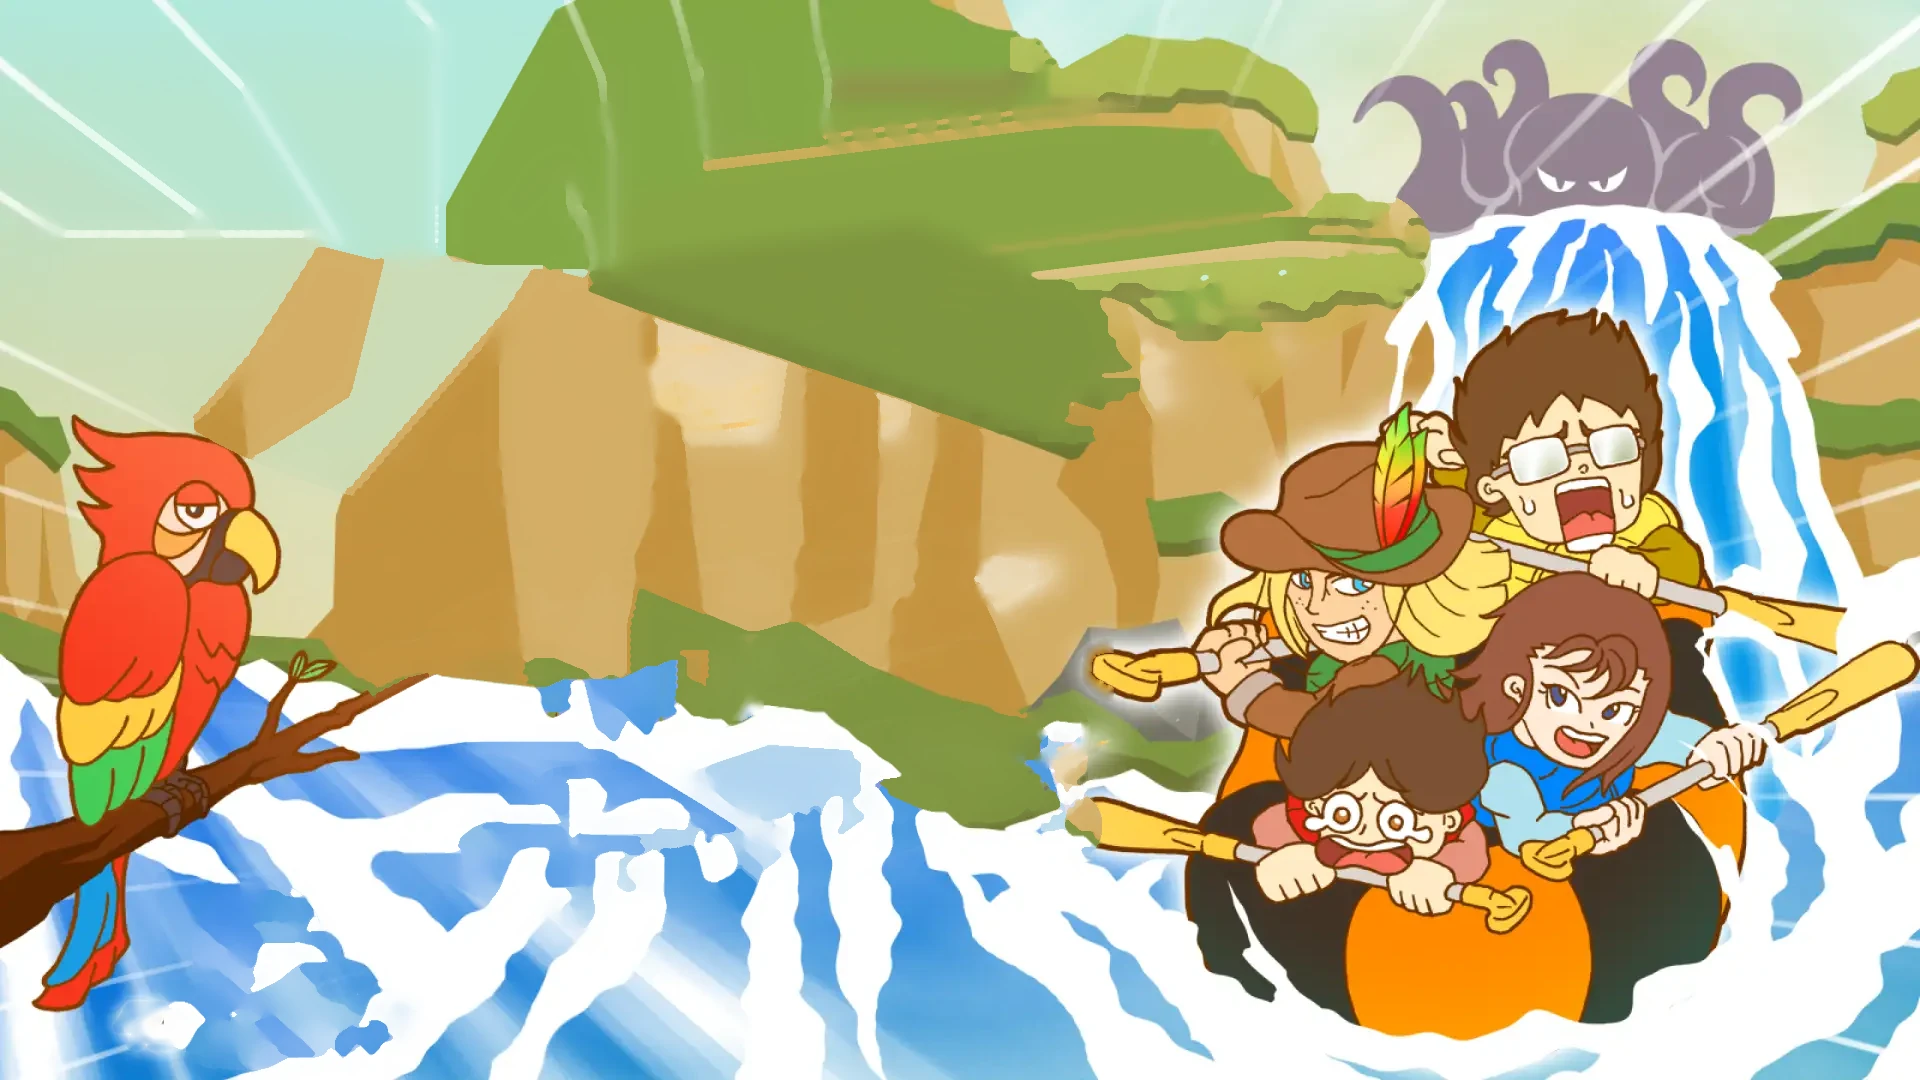
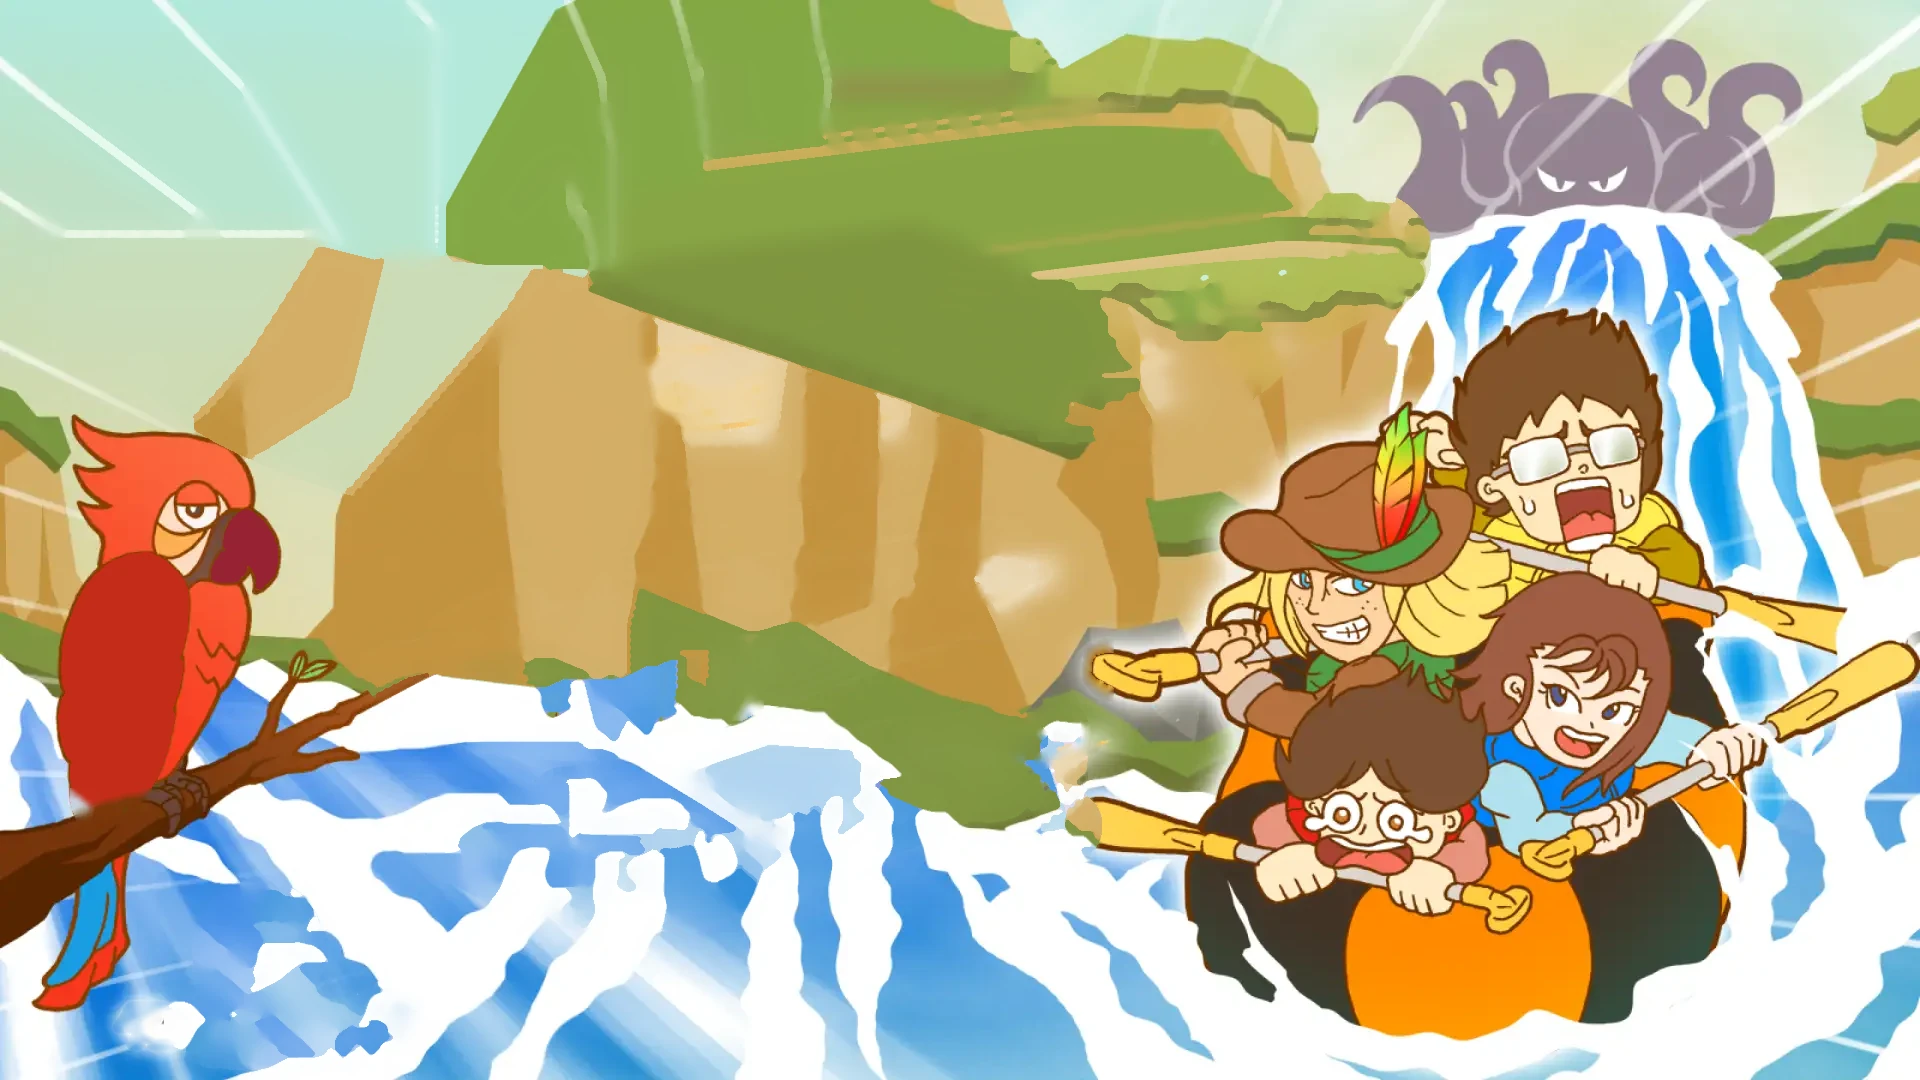
Title: calmer water, gentler ナゾリバー motion, animated parrot
- Water flow, swirl, glints and waterfall slowed to roughly 40-55%.
- ナゾリバー glides in over 1.15s with a softer settle and lighter shake;
  letter waves scroll in 6s, idle float slower and smaller, shine sweeps less often.
- Parrot now and then flaps its wing and opens its beak (cut-out wing, beak and
  jaw layers; background under them patched).

Claude-Session: https://claude.ai/code/session_01SqEk8DXTmopF3XoCv2o86J

Changed region(s): [[0.0312, 0.4583, 0.1562, 0.7639]]

diff --git a/src/title.ts b/src/title.ts
@@ -1,6 +1,7 @@
 import { asset } from "./paths";
 import logoSvg from "./title-logo.svg?raw";
 import "./title.css";
+import { TitleParrot } from "./titleParrot";
 import { TitleWater } from "./titleWater";
 
 // Title: plain key visual slams in → 激流！ → ナゾリバー → オンライン版, then CLICK TO START.
@@ -14,8 +15,8 @@ const OUT_EXPO = "cubic-bezier(0.16, 1, 0.3, 1)";
 const T_BG = 0;
 const T_GEKI = 650;
 const T_NAZO = 1150;
-const T_BADGE = 1750;
-const T_READY = 2250;
+const T_BADGE = 2350;
+const T_READY = 2850;
 
 type Handlers = {
   begin: () => void;
@@ -56,6 +57,7 @@ export class TitleScreen {
   private bgWrap: HTMLElement;
   private bgInner: HTMLElement;
   private water: TitleWater;
+  private parrot: TitleParrot;
   private lines: HTMLImageElement;
   private logo: HTMLElement;
   private geki: SVGGElement;
@@ -88,6 +90,7 @@ export class TitleScreen {
     this.water = new TitleWater(this.bgInner, asset("art/title/water_mask.webp"));
     place(this.water.canvas, 960, 540, 1920, 1080);
     this.water.setRunning(true);
+    this.parrot = new TitleParrot(this.bgInner);
     if (import.meta.env.DEV || new URLSearchParams(location.search).get("debug") === "true") {
       Object.assign(window, { __titleWater: this.water });
     }
@@ -148,6 +151,7 @@ export class TitleScreen {
   setVisible(visible: boolean): void {
     this.root.style.display = visible ? "" : "none";
     this.water.setRunning(visible);
+    this.parrot.setRunning(visible && this.state === "ready");
   }
 
   /** Called whenever the game comes back to the title: replay the intro after a run. */
@@ -208,19 +212,19 @@ export class TitleScreen {
     );
     this.at(T_GEKI + 220, () => this.impact("bashi", 14, 0.55));
 
-    // 3. ナゾリバー surges in from the right like a wave.
+    // 3. ナゾリバー glides in from the right like a swell, then settles.
     this.anim(
       this.nazo,
       [
-        { opacity: 0, transform: "translateX(900px) skewX(-24deg) scaleX(1.25)" },
-        { opacity: 1, transform: "translateX(-40px) skewX(8deg) scaleX(0.96)", offset: 0.6 },
-        { opacity: 1, transform: "translateX(12px) skewX(-2deg) scaleX(1.01)", offset: 0.82 },
-        { opacity: 1, transform: "translateX(0) skewX(0deg) scaleX(1)" },
+        { opacity: 0, transform: "translateX(640px) skewX(-12deg)" },
+        { opacity: 1, transform: "translateX(-22px) skewX(3deg)", offset: 0.55 },
+        { opacity: 1, transform: "translateX(6px) skewX(-1deg)", offset: 0.8 },
+        { opacity: 1, transform: "translateX(0) skewX(0deg)" },
       ],
-      { duration: 520, delay: T_NAZO, easing: "cubic-bezier(0.3, 0.7, 0.4, 1)" },
+      { duration: 1150, delay: T_NAZO, easing: "cubic-bezier(0.22, 0.75, 0.3, 1)" },
     );
-    this.at(T_NAZO + 300, () => {
-      this.impact("basha", 20, 0.7);
+    this.at(T_NAZO + 420, () => {
+      this.impact("basha", 9, 0.45);
       this.splashBurst();
     });
 
@@ -254,9 +258,10 @@ export class TitleScreen {
     if (this.state !== "intro") return;
     this.state = "ready";
     this.root.classList.add("ready");
+    this.parrot.setRunning(true);
     this.idle.push(
-      this.logo.animate([{ transform: "translateY(0) rotate(0deg)" }, { transform: "translateY(-10px) rotate(-0.4deg)" }], {
-        duration: 2200,
+      this.logo.animate([{ transform: "translateY(0) rotate(0deg)" }, { transform: "translateY(-6px) rotate(-0.25deg)" }], {
+        duration: 3800,
         iterations: Infinity,
         direction: "alternate",
         easing: "ease-in-out",
@@ -270,9 +275,9 @@ export class TitleScreen {
     );
     this.shines.forEach((shine, i) => {
       this.idle.push(
-        shine.animate([{ transform: "translateX(0)" }, { transform: "translateX(1900px)" }], {
-          duration: 4200,
-          delay: i * 140,
+        shine.animate([{ transform: "translateX(0)" }, { transform: "translateX(1900px)", offset: 0.4 }, { transform: "translateX(1900px)" }], {
+          duration: 7000,
+          delay: i * 220,
           iterations: Infinity,
           easing: "cubic-bezier(0.45, 0, 0.2, 1)",
         }),

diff --git a/src/titleParrot.ts b/src/titleParrot.ts
@@ -1,0 +1,92 @@
+import { asset } from "./paths";
+
+// The parrot on the title now and then flaps its wing or works its beak.
+// Parts are cut from the key visual (tools/title-art/parrot_parts.py); the background under them is pre-patched
+// (shadowed body red under the wing, dark mouth behind the beak), so moving them reveals something sensible.
+
+type Part = { x: number; y: number; w: number; h: number; px: number; py: number };
+
+// Stage pixels, written by parrot_parts.py. px/py = hinge point.
+const WING: Part = { x: 55, y: 549, w: 137, h: 282, px: 143, py: 569 };
+const BEAK: Part = { x: 220, y: 506, w: 61, h: 87, px: 228, py: 532 };
+const JAW: Part = { x: 208, y: 548, w: 42, h: 38, px: 214, py: 554 };
+
+function layer(parent: HTMLElement, name: string, part: Part): HTMLImageElement {
+  const img = document.createElement("img");
+  img.className = "abs t-parrot";
+  img.src = asset(`art/title/parrot_${name}.webp`);
+  img.draggable = false;
+  img.alt = "";
+  img.style.left = `${part.x}px`;
+  img.style.top = `${part.y}px`;
+  img.style.width = `${part.w}px`;
+  img.style.height = `${part.h}px`;
+  img.style.transformOrigin = `${part.px - part.x}px ${part.py - part.y}px`;
+  parent.appendChild(img);
+  return img;
+}
+
+export class TitleParrot {
+  private wing: HTMLImageElement;
+  private jaw: HTMLImageElement;
+  private beak: HTMLImageElement;
+  private timer = 0;
+  private running = false;
+
+  constructor(parent: HTMLElement) {
+    this.wing = layer(parent, "wing", WING);
+    this.jaw = layer(parent, "jaw", JAW);
+    this.beak = layer(parent, "beak", BEAK);
+  }
+
+  setRunning(running: boolean): void {
+    if (running === this.running) return;
+    this.running = running;
+    window.clearTimeout(this.timer);
+    if (running) this.schedule(1800 + Math.random() * 1500);
+  }
+
+  private schedule(ms: number): void {
+    this.timer = window.setTimeout(() => {
+      if (!this.running) return;
+      const roll = Math.random();
+      if (roll < 0.45) this.talk();
+      else if (roll < 0.85) this.flap();
+      else {
+        this.flap();
+        window.setTimeout(() => this.talk(), 350);
+      }
+      this.schedule(2600 + Math.random() * 3600);
+    }, ms);
+  }
+
+  /** Wing lifts away from the body a couple of times, then folds back. */
+  private flap(): void {
+    const big = Math.random() < 0.6;
+    const frames = big
+      ? [
+          { transform: "rotate(0deg)" },
+          { transform: "rotate(12deg) scaleX(1.03)", offset: 0.22 },
+          { transform: "rotate(4deg)", offset: 0.45 },
+          { transform: "rotate(10deg) scaleX(1.02)", offset: 0.68 },
+          { transform: "rotate(0deg)" },
+        ]
+      : [{ transform: "rotate(0deg)" }, { transform: "rotate(6deg)", offset: 0.4 }, { transform: "rotate(0deg)" }];
+    this.wing.animate(frames, { duration: big ? 950 : 520, easing: "ease-in-out" });
+  }
+
+  /** Beak opens and closes one to three times, like it's squawking. */
+  private talk(): void {
+    const chomps = 1 + Math.floor(Math.random() * 3);
+    const jaw: Keyframe[] = [{ transform: "rotate(0deg)" }];
+    const beak: Keyframe[] = [{ transform: "rotate(0deg)" }];
+    for (let i = 0; i < chomps; i++) {
+      const open = 20 + Math.random() * 8;
+      jaw.push({ transform: `rotate(${open}deg)`, offset: (i + 0.45) / chomps }, { transform: "rotate(0deg)", offset: (i + 1) / chomps });
+      beak.push({ transform: `rotate(${-open * 0.45}deg)`, offset: (i + 0.45) / chomps }, { transform: "rotate(0deg)", offset: (i + 1) / chomps });
+    }
+    const duration = 300 * chomps;
+    this.jaw.animate(jaw, { duration, easing: "ease-in-out" });
+    this.beak.animate(beak, { duration, easing: "ease-in-out" });
+  }
+}

diff --git a/src/titleWater.ts b/src/titleWater.ts
@@ -69,15 +69,15 @@ vec3 river(vec2 p, float boost, float t) {
   float Z = 300.0 / dy;
   float X = (p.x - 880.0) / dy;
   float far = smoothstep(0.9, 5.5, Z);
-  vec2 q = vec2(X * 2.4, Z * 1.15 + t * 0.62);
+  vec2 q = vec2(X * 2.4, Z * 1.15 + t * 0.24);
 
   // Domain warp gives the swirling, churning motion.
-  vec2 w = vec2(fbm(q * 0.8 + vec2(0.0, t * 0.12)), fbm(q * 0.8 + vec2(5.2, 1.3 - t * 0.09)));
+  vec2 w = vec2(fbm(q * 0.8 + vec2(0.0, t * 0.05)), fbm(q * 0.8 + vec2(5.2, 1.3 - t * 0.04)));
   vec2 r = q + 0.42 * w;
 
   float body = fbm(r * vec2(1.5, 2.4));
   // Jagged crests across the flow, like the spiky rapids in the art.
-  float spikes = 1.0 - abs(snoise(vec2(r.x * 7.0, r.y * 1.1 - t * 0.2)));
+  float spikes = 1.0 - abs(snoise(vec2(r.x * 7.0, r.y * 1.1 - t * 0.08)));
   float field = body + 0.2 * spikes * spikes + boost * 0.7 - far * 0.12;
 
   float e = 0.012 + far * 0.05;
@@ -93,8 +93,8 @@ vec3 river(vec2 p, float boost, float t) {
   c = mix(c, foamCol, foam);
 
   // Sun glints on the open water.
-  float g = snoise(p * 0.085 + vec2(t * 0.6, -t * 2.2));
-  float g2 = snoise(p * 0.03 + vec2(-t * 0.3, t * 0.5));
+  float g = snoise(p * 0.085 + vec2(t * 0.25, -t * 0.8));
+  float g2 = snoise(p * 0.03 + vec2(-t * 0.12, t * 0.2));
   c = mix(c, vec3(1.0), smoothstep(0.86, 0.93, g * 0.7 + g2 * 0.45) * (1.0 - foam) * (1.0 - far));
 
   // Distance haze toward the horizon (also hides noise shimmer there).
@@ -103,9 +103,9 @@ vec3 river(vec2 p, float boost, float t) {
 }
 
 vec3 waterfall(vec2 p, float t) {
-  vec2 q = vec2(p.x * 0.028, p.y * 0.0042 - t * 1.5);
+  vec2 q = vec2(p.x * 0.028, p.y * 0.0042 - t * 0.8);
   float s = fbm(q);
-  float streak = snoise(vec2(p.x * 0.07, p.y * 0.0018 - t * 1.25));
+  float streak = snoise(vec2(p.x * 0.07, p.y * 0.0018 - t * 0.7));
   float v = s + streak * 0.28;
   vec3 c = FALL0;
   c = mix(c, FALL1, smoothstep(-0.18, -0.16, v));
@@ -113,7 +113,7 @@ vec3 waterfall(vec2 p, float t) {
   c = mix(c, vec3(1.0), smoothstep(0.18, 0.20, v));
   // Mist where it hits the river.
   float mist = smoothstep(330.0, 440.0, p.y);
-  c = mix(c, vec3(1.0), mist * smoothstep(-0.2, 0.2, fbm(p * 0.02 + vec2(0.0, -t * 0.8))));
+  c = mix(c, vec3(1.0), mist * smoothstep(-0.2, 0.2, fbm(p * 0.02 + vec2(0.0, -t * 0.4))));
   return c;
 }
 

diff --git a/tools/title-art/parrot_parts.py b/tools/title-art/parrot_parts.py
@@ -1,0 +1,78 @@
+"""Cut the parrot's wing, upper beak and lower jaw into separate layers and patch the background under them.
+
+Region ids come from labelling the parrot crop by its outlines (see parrot_labels.png):
+wing = 12 (red), 15 (yellow), 20 (green); upper beak = 7; lower jaw = 11.
+"""
+import cv2, numpy as np, json
+from PIL import Image
+
+SRC = "clean_final2.png"
+OUT_BG = "/home/claude/greendice-inc/nazoriver-web/public/art/title/bg.webp"
+OUT_DIR = "/home/claude/greendice-inc/nazoriver-web/public/art/title/"
+X0, Y0 = 20, 380
+
+im = cv2.imread(SRC)
+lab = np.load("parrot_lab.npy")
+H, W = im.shape[:2]
+
+
+def full(m):
+    out = np.zeros((H, W), np.uint8)
+    out[Y0:Y0 + m.shape[0], X0:X0 + m.shape[1]] = m
+    return out
+
+
+def region(ids, close_k, grow):
+    m = np.isin(lab, ids).astype(np.uint8) * 255
+    m = cv2.morphologyEx(m, cv2.MORPH_CLOSE, cv2.getStructuringElement(cv2.MORPH_ELLIPSE, (close_k, close_k)))
+    if grow:
+        m = cv2.dilate(m, cv2.getStructuringElement(cv2.MORPH_ELLIPSE, (2 * grow + 1, 2 * grow + 1)))
+    return full(m)
+
+
+wing = region([12, 15, 20], 9, 3)
+beak = region([7], 5, 3)
+jaw = region([11], 5, 2)
+jaw &= ~beak
+
+parts = {}
+
+
+def cut(name, m, pivot_rule):
+    ys, xs = np.nonzero(m)
+    x0, y0, x1, y1 = xs.min() - 2, ys.min() - 2, xs.max() + 3, ys.max() + 3
+    alpha = cv2.GaussianBlur(m[y0:y1, x0:x1].astype(np.float32) / 255, (0, 0), 0.6)
+    rgb = cv2.cvtColor(im[y0:y1, x0:x1], cv2.COLOR_BGR2RGB)
+    rgba = np.dstack([rgb, (alpha * 255).astype(np.uint8)])
+    Image.fromarray(rgba, "RGBA").save(f"{OUT_DIR}parrot_{name}.webp", lossless=True)
+    px, py = pivot_rule(xs, ys)
+    parts[name] = {"x": int(x0), "y": int(y0), "w": int(x1 - x0), "h": int(y1 - y0), "px": int(px), "py": int(py)}
+
+
+# Wing hinges at the shoulder: top of the wing, toward the body (right).
+cut("wing", wing, lambda xs, ys: (np.percentile(xs, 70), ys.min() + 18))
+# Upper beak hinges where it meets the face: its left edge, upper third.
+cut("beak", beak, lambda xs, ys: (xs.min() + 6, ys.min() + (ys.max() - ys.min()) * 0.3))
+# Lower jaw hinges at its top-left corner.
+cut("jaw", jaw, lambda xs, ys: (xs.min() + 4, ys.min() + 4))
+
+# Patch the background under the moving parts.
+bg = im.copy()
+under_wing = cv2.erode(wing, np.ones((3, 3), np.uint8)) > 0
+# Body sits under most of the wing; below the feet line the wing tip hangs over the branch/tail instead.
+FEET_Y = 790
+body_part = under_wing.copy()
+body_part[FEET_Y:] = False
+bg[body_part] = (24, 44, 196)           # BGR shadowed body red (#c42c18)
+below = under_wing.copy()
+below[:FEET_Y] = False
+if below.any():
+    hole = cv2.dilate(below.astype(np.uint8) * 255, np.ones((5, 5), np.uint8))
+    hole[:FEET_Y - 2] = 0
+    bg = cv2.inpaint(bg, hole, 9, cv2.INPAINT_TELEA)
+mouth = cv2.erode(beak | jaw, np.ones((3, 3), np.uint8)) > 0
+bg[mouth] = (50, 34, 150)               # BGR mouth inside (#962232)
+Image.fromarray(cv2.cvtColor(bg, cv2.COLOR_BGR2RGB)).save(OUT_BG, quality=90, method=6)
+cv2.imwrite("bg_parrot_patched.png", bg[Y0 + 100:Y0 + 520, X0:X0 + 320])
+
+print(json.dumps(parts))

diff --git a/tools/title-art/gen_logo.py b/tools/title-art/gen_logo.py
@@ -58,7 +58,7 @@ svg = f"""<svg xmlns="http://www.w3.org/2000/svg" viewBox="{VB[0]} {VB[1]} {VB[2
     </linearGradient>
     <pattern id="waves" width="96" height="26" patternUnits="userSpaceOnUse">
       <path d="M0 13 Q24 3 48 13 T96 13" fill="none" stroke="#fff" stroke-opacity="0.32" stroke-width="5"/>
-      <animateTransform attributeName="patternTransform" type="translate" from="0 0" to="96 0" dur="2.4s" repeatCount="indefinite"/>
+      <animateTransform attributeName="patternTransform" type="translate" from="0 0" to="96 0" dur="6s" repeatCount="indefinite"/>
     </pattern>
     <linearGradient id="badgeFill" x1="0" y1="0" x2="0" y2="1">
       <stop offset="0" stop-color="#3d6cf0"/>

diff --git a/CLAUDE.md b/CLAUDE.md
@@ -19,6 +19,7 @@ https://cont.tumbleweed.jp/NazoRiver-web/ (add `?debug=true` for debug tools).
 - `src/titleWater.ts`: WebGL shader that animates the river/waterfall on the title, masked by
   `public/art/title/water_mask.webp`. With `?debug=true`, `window.__titleWater.renderAt(sec)` draws one exact frame
   (use it for frame-by-frame captures, since headless WebGL here runs at about 0.5 fps). The 3D world is not rendered while the title is up.
+- `src/titleParrot.ts`: parrot wing flap / beak squawk on the title (cut-out layers over the key visual).
 - `src/menu.ts` + `src/menu.css`: hamburger menu (volume, record reset, debug jump/clear).
 - `src/audio.ts`: Web Audio. BGM/SE volume is saved in localStorage `nazoriver.volume`.
 - `src/trophies.ts`: achievements, stored in localStorage `nazoriver.trophies`.

diff --git a/tools/title-art/README.md b/tools/title-art/README.md
@@ -16,5 +16,9 @@ Run inside this folder; intermediate files stay here (gitignored).
    B waterfall). Save `water_mask.png` as lossless WebP to `public/art/title/water_mask.webp`.
    The water itself is drawn by the shader in `src/titleWater.ts`.
 
+7. `python parrot_parts.py` (needs `parrot_lab.npy` from labelling the parrot by its outlines): cuts the
+   parrot's wing / upper beak / lower jaw into `public/art/title/parrot_*.webp`, patches the background
+   under them and rewrites `bg.webp`. Paste the printed positions into `src/titleParrot.ts`.
+
 Note: `make_art.py` picks logo parts by connected-component ids (10/11 = ナゾリバー, 1 = 激流！, 2 = pill),
 which were read off the current art. If the source art changes, re-check them.
